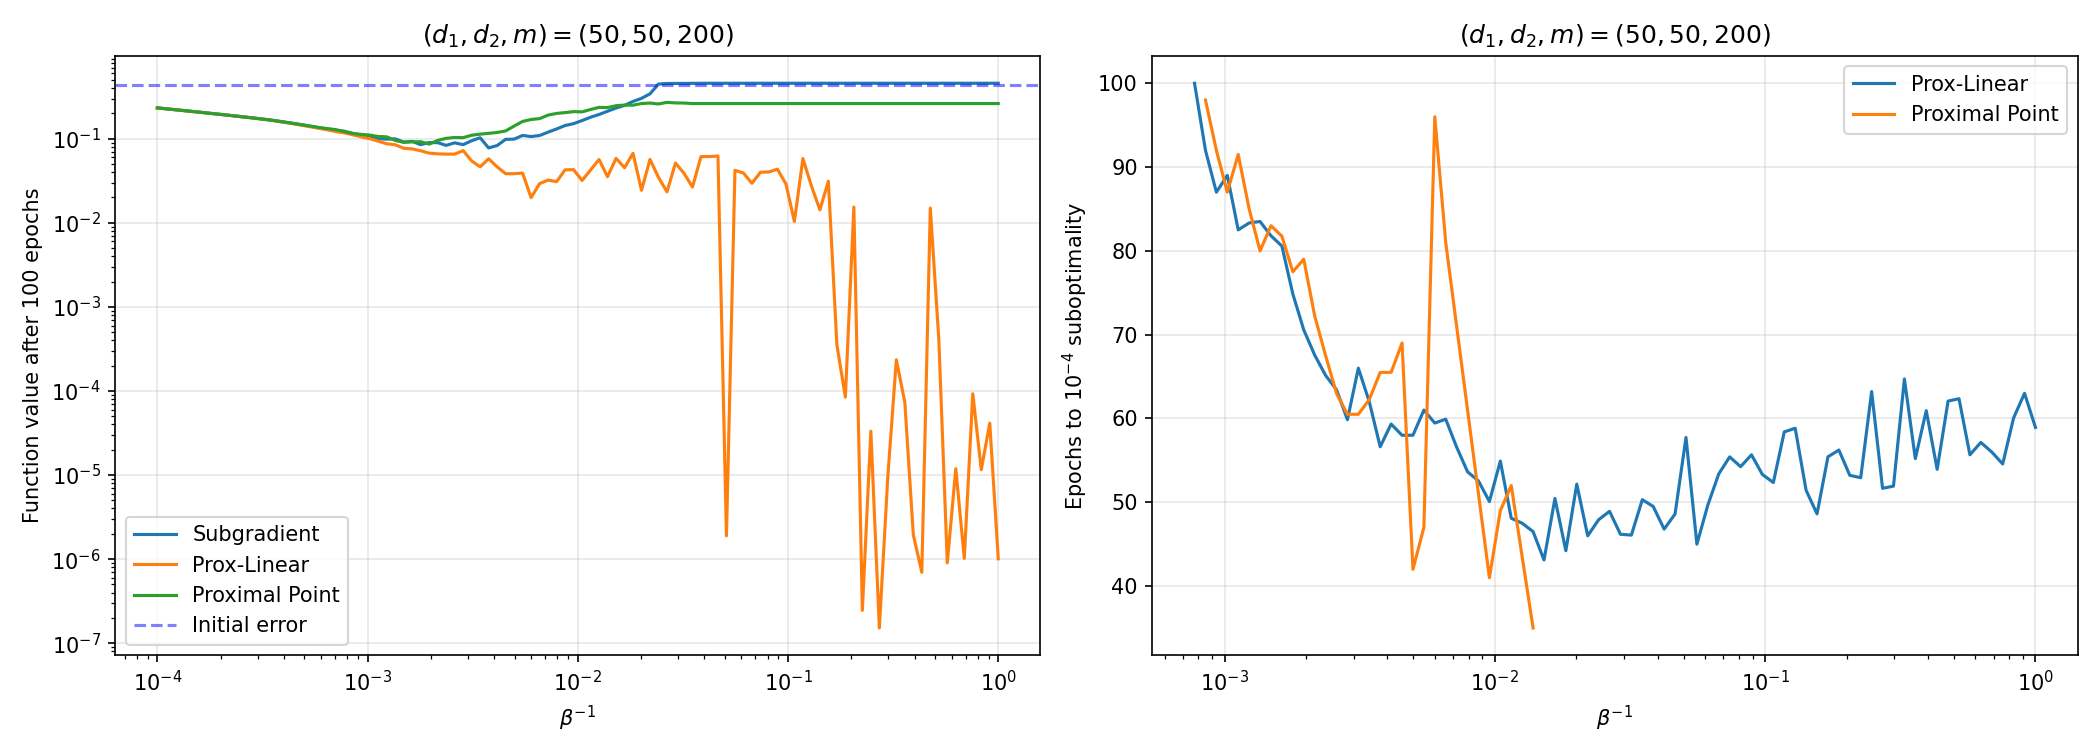
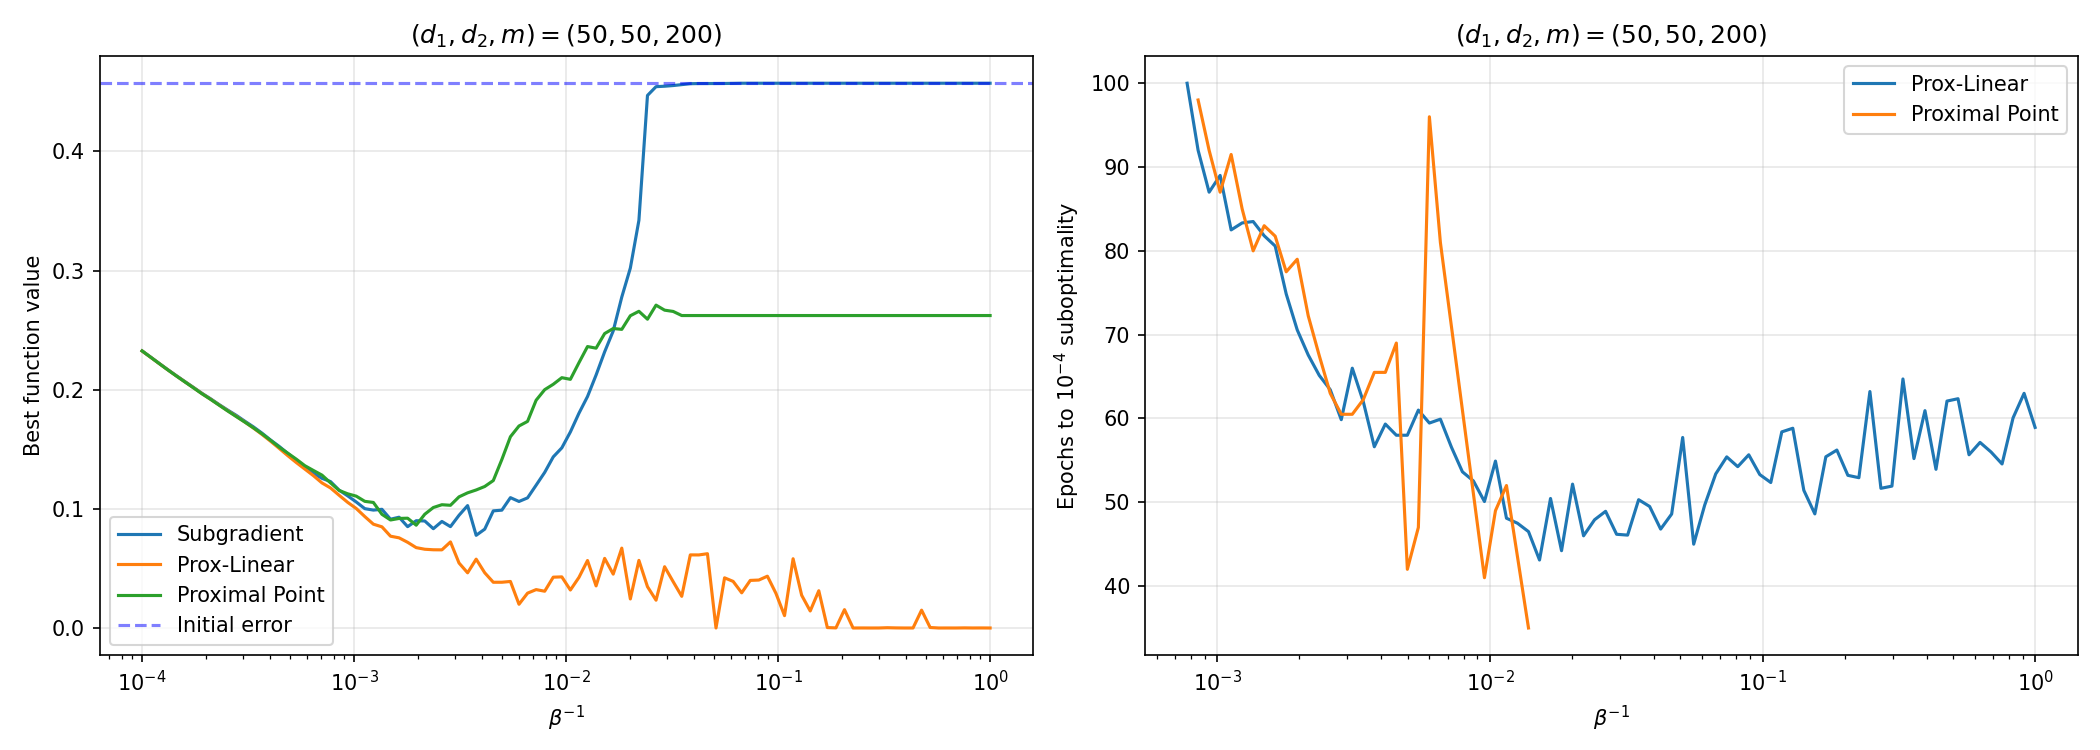
feat: update plot labels in blind deconvolution and phase retrieval experiments for clarity; improve objective reporting in optimizer comparison

diff --git a/experiments/optimizer_comparison.py b/experiments/optimizer_comparison.py
@@ -59,7 +59,7 @@ def run_model_based(method_cls, data, d, beta, n_epochs, m, seed):
 
 
 def run_torch_optimizer(opt_class, data, d, lr, n_epochs, m, seed, **opt_kwargs):
-    """Run a torch optimizer on the phase retrieval loss. Returns final population objective."""
+    """Run a torch optimizer on the phase retrieval loss. Returns best population objective."""
     torch.manual_seed(seed)
     x = torch.randn(d)
     x = x / torch.norm(x)
@@ -69,6 +69,10 @@ def run_torch_optimizer(opt_class, data, d, lr, n_epochs, m, seed, **opt_kwargs)
 
     a_all = data[:, :-1]
     b_all = data[:, -1]
+
+    # Initial objective
+    with torch.no_grad():
+        best_obj = torch.mean(torch.abs((a_all @ x) ** 2 - b_all)).item()
 
     for epoch in range(n_epochs):
         perm = torch.randperm(m)
@@ -81,9 +85,12 @@ def run_torch_optimizer(opt_class, data, d, lr, n_epochs, m, seed, **opt_kwargs)
             loss.backward()
             optimizer.step()
 
-    with torch.no_grad():
-        obj = torch.mean(torch.abs((a_all @ x) ** 2 - b_all)).item()
-    return obj
+        with torch.no_grad():
+            obj = torch.mean(torch.abs((a_all @ x) ** 2 - b_all)).item()
+            if obj < best_obj:
+                best_obj = obj
+
+    return best_obj
 
 
 MODEL_METHODS = {
@@ -208,10 +215,9 @@ def plot_comparison(d, m, lrs, results, initial_error, save_dir):
     ax.axhline(
         y=initial_error, color="gray", linestyle=":", alpha=0.5, label="Initial error"
     )
-    ax.set_xlabel("Step-size parameter")
-    ax.set_ylabel("Function value after 100 epochs")
+    ax.set_xlabel("Stepsize parameter")
+    ax.set_ylabel("Function gap")
     ax.set_title(f"Model-based vs Standard Optimizers — (d, m) = ({d}, {m})")
-    ax.set_yscale("log")
     ax.set_xscale("log")
     ax.legend(ncol=2)
     ax.grid(True, alpha=0.3)
@@ -233,10 +239,14 @@ def main():
 
         data, _ = generate_phase_retrieval_data(d, m, seed=42)
         prob = SubgradientPhaseRetrieval(rho=2.0)
-        torch.manual_seed(0)
-        x0 = torch.randn(d)
-        x0 = x0 / torch.norm(x0)
-        initial_error = prob.population_objective(x0, data)
+        n_rounds = 15
+        initial_errors = []
+        for r in range(n_rounds):
+            torch.manual_seed(r)
+            x0 = torch.randn(d)
+            x0 = x0 / torch.norm(x0)
+            initial_errors.append(prob.population_objective(x0, data))
+        initial_error = np.mean(initial_errors)
 
         plot_comparison(d, m, lrs, results, initial_error, save_dir)
 

diff --git a/experiments/blind_deconvolution.py b/experiments/blind_deconvolution.py
@@ -168,8 +168,8 @@ def plot_config(
     ax1.axhline(
         y=initial_error, color="blue", linestyle="--", alpha=0.5, label="Initial error"
     )
-    ax1.set_xlabel(r"$\beta^{-1}$")
-    ax1.set_ylabel("Best function value")
+    ax1.set_xlabel("Stepsize parameter")
+    ax1.set_ylabel("Function gap")
     ax1.set_title(f"$(d_1, d_2, m) = ({d1}, {d2}, {m})$")
     ax1.set_xscale("log")
     ax1.legend()
@@ -181,8 +181,8 @@ def plot_config(
         if mask.any():
             ax2.plot(inv_betas[mask], vals[mask], label=name, linewidth=1.5)
 
-    ax2.set_xlabel(r"$\beta^{-1}$")
-    ax2.set_ylabel(r"Epochs to $10^{-4}$ suboptimality")
+    ax2.set_xlabel("Stepsize parameter")
+    ax2.set_ylabel(r"# epochs")
     ax2.set_title(f"$(d_1, d_2, m) = ({d1}, {d2}, {m})$")
     ax2.set_xscale("log")
     ax2.legend()

diff --git a/experiments/phase_retrieval.py b/experiments/phase_retrieval.py
@@ -159,8 +159,8 @@ def plot_config(d, m, inv_betas, final_objs, epochs_to_target, initial_error, sa
     ax1.axhline(
         y=initial_error, color="blue", linestyle="--", alpha=0.5, label="Initial error"
     )
-    ax1.set_xlabel(r"$\beta^{-1}$")
-    ax1.set_ylabel("Best function value")
+    ax1.set_xlabel("Stepsize parameter")
+    ax1.set_ylabel("Function gap")
     ax1.set_title(f"(d, m) = ({d}, {m})")
     ax1.set_xscale("log")
     ax1.legend()
@@ -173,8 +173,8 @@ def plot_config(d, m, inv_betas, final_objs, epochs_to_target, initial_error, sa
         if mask.any():
             ax2.plot(inv_betas[mask], vals[mask], label=name, linewidth=1.5)
 
-    ax2.set_xlabel(r"$\beta^{-1}$")
-    ax2.set_ylabel(r"Epochs to $10^{-4}$ suboptimality")
+    ax2.set_xlabel("Stepsize parameter")
+    ax2.set_ylabel(r"# epochs")
     ax2.set_title(f"(d, m) = ({d}, {m})")
     ax2.set_xscale("log")
     ax2.legend()